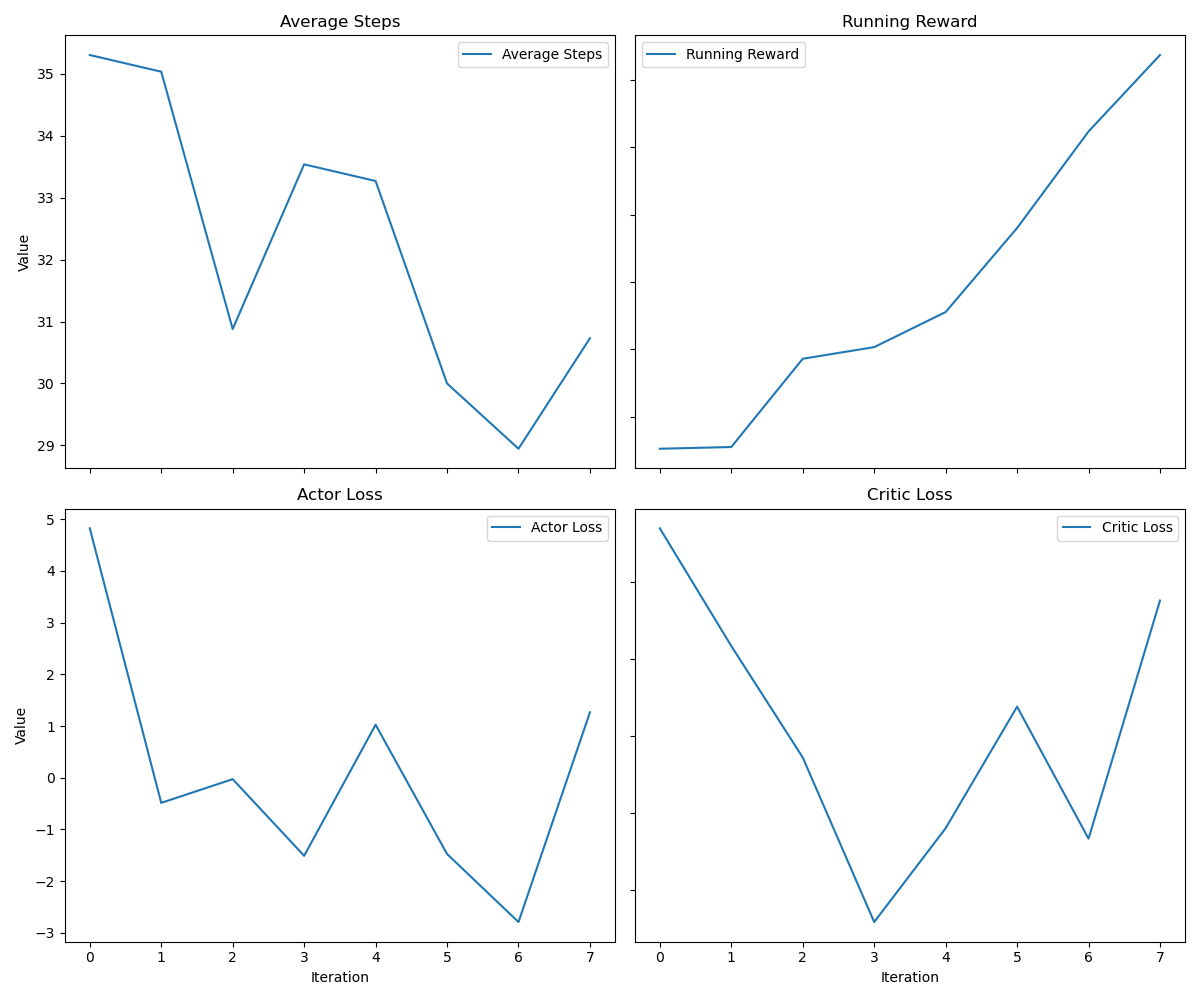
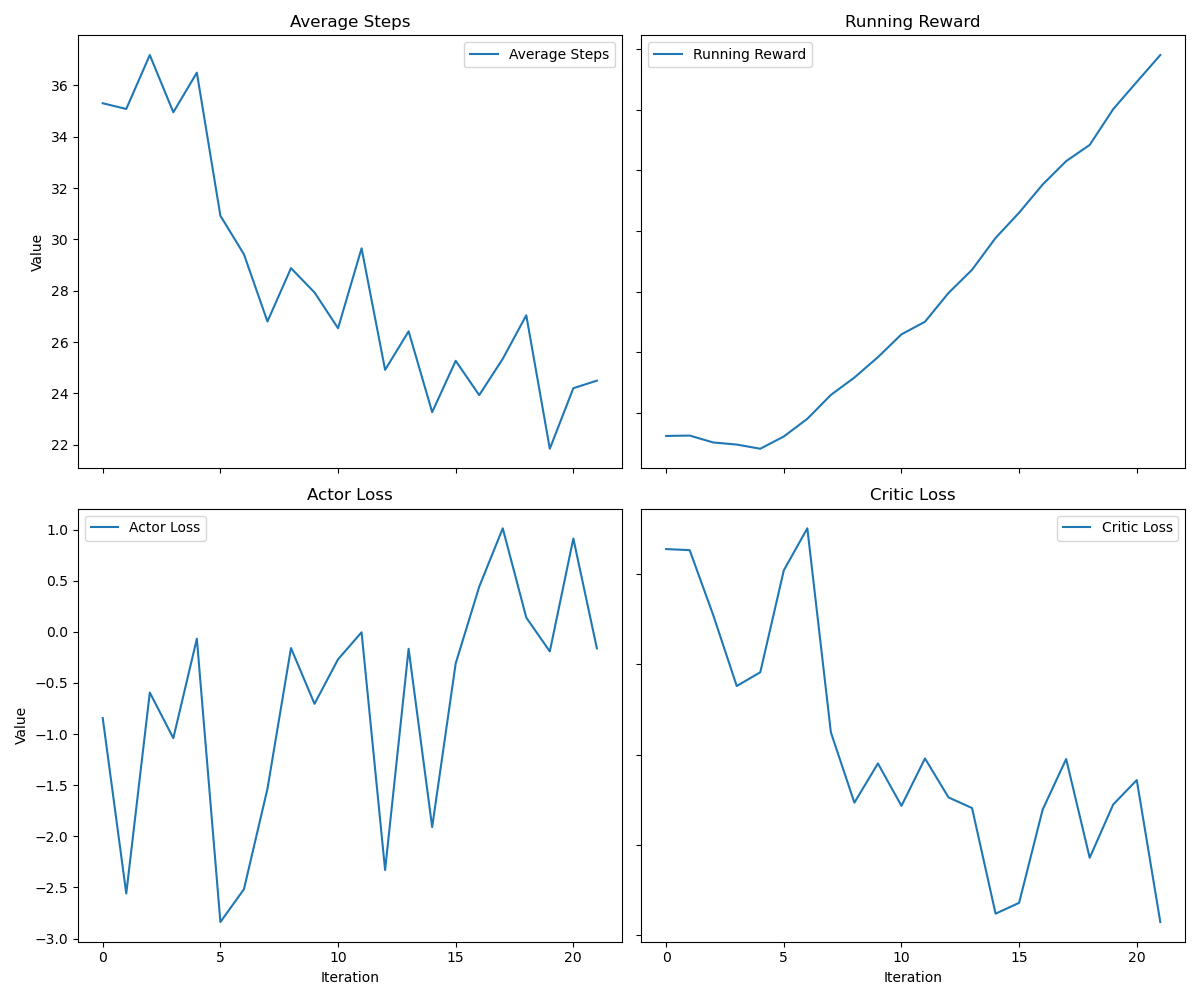
DO NOT train with positional encoding anymore

diff --git a/train.py b/train.py
@@ -1,9 +1,5 @@
 import torch
-import numpy as np
-import time
 import matplotlib.pyplot as plt
-
-from utils import positional_encoding
 
 
 class Train:
@@ -45,7 +41,7 @@ class Train:
         log_probs,
         hidden_states_actor,
         hidden_states_critic,
-        positional_encoded_tensor,
+        time_step_tensor,
     ):
         full_batch_size = states.size(0)
         for _ in range(full_batch_size // mini_batch_size):
@@ -62,21 +58,14 @@ class Train:
                 log_probs[indices],
                 hidden_states_actor[indices],
                 hidden_states_critic[indices],
-                positional_encoded_tensor[indices],
+                time_step_tensor[indices],
             )
 
     def train(
         self,
-        states,
-        actions,
-        advs,
-        values,
-        log_probs,
-        hidden_states_actor,
-        hidden_states_critic,
-        positional_encoded_tensor,
+        tensor_manager,
     ):
-        returns = advs + values
+        returns = tensor_manager.advantages_tensor + tensor_manager.values_tensor
 
         for epoch in range(self.epochs):
             for (
@@ -88,18 +77,18 @@ class Train:
                 old_log_prob,
                 hidden_state_actor,
                 hidden_state_critic,
-                position,
+                time_step,
             ) in self.choose_mini_batch(
                 self.mini_batch_size,
-                states,
-                actions,
+                tensor_manager.states_tensor,
+                tensor_manager.actions_tensor,
                 returns,
-                advs,
-                values,
-                log_probs,
-                hidden_states_actor,
-                hidden_states_critic,
-                positional_encoded_tensor,
+                tensor_manager.advantages_tensor,
+                tensor_manager.values_tensor,
+                tensor_manager.log_probs_tensor,
+                tensor_manager.hidden_states_actor_tensor,
+                tensor_manager.hidden_states_critic_tensor,
+                tensor_manager.time_step_tensor,
             ):
                 h_a = hidden_state_actor[:, 0, :].unsqueeze(0).contiguous()
                 c_a = hidden_state_actor[:, 1, :].unsqueeze(0).contiguous()
@@ -108,12 +97,12 @@ class Train:
                 hidden_state_actor = (h_a, c_a)
                 hidden_state_critic = (h_c, c_c)
 
-                position = position.unsqueeze(2).unsqueeze(3)
-
                 # 업데이트된 숨겨진 상태를 사용하여 critic 및 actor 업데이트
                 value, _ = self.agent.get_value(
-                    state, position, hidden_state_critic, use_grad=True
+                    state, hidden_state_critic, use_grad=True
                 )
+
+                value += -self.env.gamma * time_step.unsqueeze(1)
 
                 critic_loss = (return_ - value).pow(2).mean()
 
@@ -130,10 +119,11 @@ class Train:
         return actor_loss, critic_loss
 
     def step(self):
-        # iteration 횟수만큼 반복
+
         for iteration in range(1, 1 + self.n_iterations):
+            # Initialize the environment
             done_times = [-1] * self.env_num
-            states = self.env.reset()  # 환경 초기화
+            states = self.env.reset()
             tensor_manager = TensorManager(
                 self.env_num,
                 self.horizon,
@@ -142,11 +132,8 @@ class Train:
                 self.env.state_space,  # encoded state space
                 self.agent.device,
             )
-
             hidden_states_actor = None
             hidden_states_critic = None
-
-            self.start_time = time.time()
             self.time_step = 0
 
             # 1 episode (data collection)
@@ -160,12 +147,11 @@ class Train:
                 log_prob = dists.log_prob(actions).sum(dim=1)
 
                 # Critic
-                position = tensor_manager.positional_encoded_tensor[
-                    :, self.time_step, :
-                ]
                 value, hidden_states_critic = self.agent.get_value(
-                    states, position, hidden_states_critic, use_grad=False
+                    states, hidden_states_critic, use_grad=False
                 )
+
+                # apply action to the environment
                 next_states, rewards, dones, _ = self.env.step(scaled_actions)
 
                 tensor_manager.update_tensors(
@@ -203,7 +189,6 @@ class Train:
                     ].unsqueeze(0)
                     next_value, _ = self.agent.get_value(
                         next_states[i].unsqueeze(0),
-                        tensor_manager.positional_encoded_tensor[i, -1, :],
                         (h_c, c_c),
                         use_grad=False,
                     )
@@ -217,21 +202,14 @@ class Train:
             )
             tensor_manager.advantages_tensor = advs
             tensor_manager.filter_post_done_data(done_times)
-            remaining_steps = sum(self.horizon if t == -1 else t for t in done_times)
-            actor_loss, critic_loss = self.train(
-                tensor_manager.states_tensor,
-                tensor_manager.actions_tensor,
-                tensor_manager.advantages_tensor,
-                tensor_manager.values_tensor,
-                tensor_manager.log_probs_tensor,
-                tensor_manager.hidden_states_actor_tensor,
-                tensor_manager.hidden_states_critic_tensor,
-                tensor_manager.positional_encoded_tensor,
-            )
+
+            # Train the agent
+            actor_loss, critic_loss = self.train(tensor_manager)
             eval_rewards = torch.sum(
                 tensor_manager.rewards_tensor
             )  # 각 환경별 총 보상 계산
 
+            remaining_steps = sum(self.horizon if t == -1 else t for t in done_times)
             self.agent.schedule_lr(actor_loss, critic_loss)
             self.print_logs(
                 iteration, actor_loss, critic_loss, eval_rewards, remaining_steps
@@ -362,13 +340,10 @@ class TensorManager:
         self.hidden_states_critic_tensor = self.init_tensor(
             [self.env_num, self.horizon, 2, 64], False
         )
-        self.positional_encoded_vector = positional_encoding(
-            time_step=self.horizon, d_model=16
-        ).unsqueeze(0)
-        self.positional_encoded_tensor = self.positional_encoded_vector.repeat(
-            self.env_num, 1, 1
-        ).to(self.device)
         self.advantages_tensor = self.init_tensor([self.env_num, self.horizon], False)
+        self.time_step_tensor = torch.arange(
+            0, self.horizon, device=self.device
+        ).repeat(self.env_num, 1)
 
     def init_tensor(self, shape, requires_grad):
         return torch.zeros(shape, requires_grad=requires_grad).to(self.device)
@@ -424,7 +399,6 @@ class TensorManager:
                 self.dones_tensor[i, done_times[i] :] = 1
                 self.hidden_states_actor_tensor[i, done_times[i] + 1 :, :, :] = 0
                 self.hidden_states_critic_tensor[i, done_times[i] + 1 :, :, :] = 0
-                self.positional_encoded_tensor[i, done_times[i] :] = 0
 
     def filter_post_done_data(self, done_times):
         # 각 환경의 done_time을 기반으로 필터링된 텐서의 총 길이 계산
@@ -455,11 +429,11 @@ class TensorManager:
         self.hidden_states_critic_tensor = self._filter_tensor(
             self.hidden_states_critic_tensor, done_times, remaining_steps
         )
-        self.positional_encoded_tensor = self._filter_tensor(
-            self.positional_encoded_tensor, done_times, remaining_steps
-        )
         self.advantages_tensor = self._filter_tensor(
             self.advantages_tensor, done_times, remaining_steps, is_flat=True
+        )
+        self.time_step_tensor = self._filter_tensor(
+            self.time_step_tensor, done_times, remaining_steps, is_flat=True
         )
 
     def _filter_tensor(self, tensor, done_times, remaining_steps, is_flat=False):

diff --git a/agent.py b/agent.py
@@ -18,7 +18,7 @@ class Agent:
         self.actor = Actor(n_states=self.n_states, n_actions=self.n_actions).to(
             self.device
         )
-        self.critic = Critic(n_states=self.n_states + 16).to(self.device)
+        self.critic = Critic(n_states=self.n_states).to(self.device)
 
         self.actor_optimizer = Adam(self.actor.parameters(), lr=self.lr, eps=1e-5)
         self.critic_optimizer = Adam(self.critic.parameters(), lr=self.lr, eps=1e-5)
@@ -128,18 +128,13 @@ class EncodedAgent(Agent):
     def get_value(
         self,
         state,
-        position,
         hidden_state=None,
         use_grad=True,
     ):
         encoded_state = self.get_encoded_state(state).squeeze()
-        position = position.squeeze()
         # concat
         if encoded_state.dim() == 1:
             encoded_state = encoded_state.unsqueeze(0)
-            position = position.unsqueeze(0)
-        encoded_state = torch.cat((encoded_state, position), dim=1)
-
         if use_grad:
             value, hidden_state = self.critic(encoded_state, hidden_state)
         else:
@@ -162,15 +157,3 @@ class EncodedAgent(Agent):
         ).int()
 
         return scaled_actions
-
-    def critic_forward(self, state, position, hidden_state=None):
-        encoded_state = self.get_encoded_state(state).squeeze()
-        position = position.squeeze()
-        # concat
-        if encoded_state.dim() == 1:
-            encoded_state = encoded_state.unsqueeze(0)
-            position = position.unsqueeze(0)
-        encoded_state = torch.cat((encoded_state, position), dim=1)
-        value, hidden_state = self.critic.forward(encoded_state, hidden_state)
-
-        return value, hidden_state

diff --git a/model.py b/model.py
@@ -66,10 +66,13 @@ class Critic(nn.Module):
         self.device = torch.device("cuda:0" if torch.cuda.is_available() else "cpu")
         self.n_states = n_states
 
-        self.fc1 = nn.Linear(in_features=self.n_states, out_features=64)
-        self.fc2 = nn.Linear(in_features=64, out_features=64)
-        self.lstm = nn.LSTM(input_size=64, hidden_size=hidden_size, num_layers=1)
-        self.value = nn.Linear(in_features=hidden_size, out_features=1)
+        self.fc1 = nn.Linear(in_features=self.n_states, out_features=hidden_size)
+        self.fc2 = nn.Linear(in_features=hidden_size, out_features=hidden_size)
+        self.lstm = nn.LSTM(
+            input_size=hidden_size, hidden_size=hidden_size, num_layers=1
+        )
+        self.value_1 = nn.Linear(in_features=hidden_size, out_features=hidden_size)
+        self.value_2 = nn.Linear(in_features=hidden_size, out_features=1)
 
         for layer in self.modules():
             if isinstance(layer, nn.Linear):
@@ -84,13 +87,16 @@ class Critic(nn.Module):
             hidden_states, batch_size, self.device
         )
         x = x.squeeze()
-        x = torch.tanh(self.fc1(x))
-        x = torch.tanh(self.fc2(x))
+        x = torch.relu(self.fc1(x))
+        x = torch.relu(self.fc2(x))
         x = x.unsqueeze(0)
 
         output, hidden_states = self.lstm(x, hidden_states)
 
-        value = self.value(output.squeeze(0))
+        value = torch.relu(self.value_1(output.squeeze(0)))
+        if value.dim() == 1:
+            value = value.unsqueeze(0)
+        value = self.value_2(value)
 
         return value, hidden_states
 

diff --git a/utils.py b/utils.py
@@ -19,15 +19,3 @@ def set_random_seed(seed=2021, deterministic=False):
     if deterministic:
         torch.backends.cudnn.deterministic = True
         torch.backends.cudnn.benchmark = False
-
-
-def positional_encoding(time_step, d_model):
-    """Sinusoidal positional encoding for time steps"""
-    position = torch.arange(time_step, dtype=torch.float).unsqueeze(1)
-    div_term = torch.exp(
-        torch.arange(0, d_model, 2).float() * (-np.log(10000.0) / d_model)
-    )
-    sinusoidal_encoding = torch.zeros(time_step, d_model, requires_grad=False)
-    sinusoidal_encoding[:, 0::2] = torch.sin(position * div_term)
-    sinusoidal_encoding[:, 1::2] = torch.cos(position * div_term)
-    return sinusoidal_encoding

diff --git a/environment.py b/environment.py
@@ -47,7 +47,6 @@ class Env:
         return self.current_state
 
     def step(self, actions):
-        self.actions_taken += 1
         modified_image = self.apply_actions(self.current_state, actions)
 
         # 수정된 이미지를 모델과 동일한 장치로 이동
@@ -65,6 +64,7 @@ class Env:
         self.current_state = modified_image
         self.previous_prediction = new_prediction
 
+        self.actions_taken += 1
         return modified_image, reward, done, {}
 
     def apply_actions(self, images, actions):

diff --git a/main.py b/main.py
@@ -10,17 +10,19 @@ ENV_NAME = "AdversarialRL"
 
 
 n_iterations = 50000
-lr = 0.0003
+lr = 0.0005
 epochs = 10
 clip_range = 0.2
-mini_batch_size = 64
+mini_batch_size = 128
 T = 64
 device = torch.device("cuda:0" if torch.cuda.is_available() else "cpu")
 latent_size = 512
 env_batch = 256
+pos_dim = 16
 
+# Reward weights
 alpha = 1.0
-beta = 20.0
+beta = 30.0
 gamma = 0.05
 
 if __name__ == "__main__":
